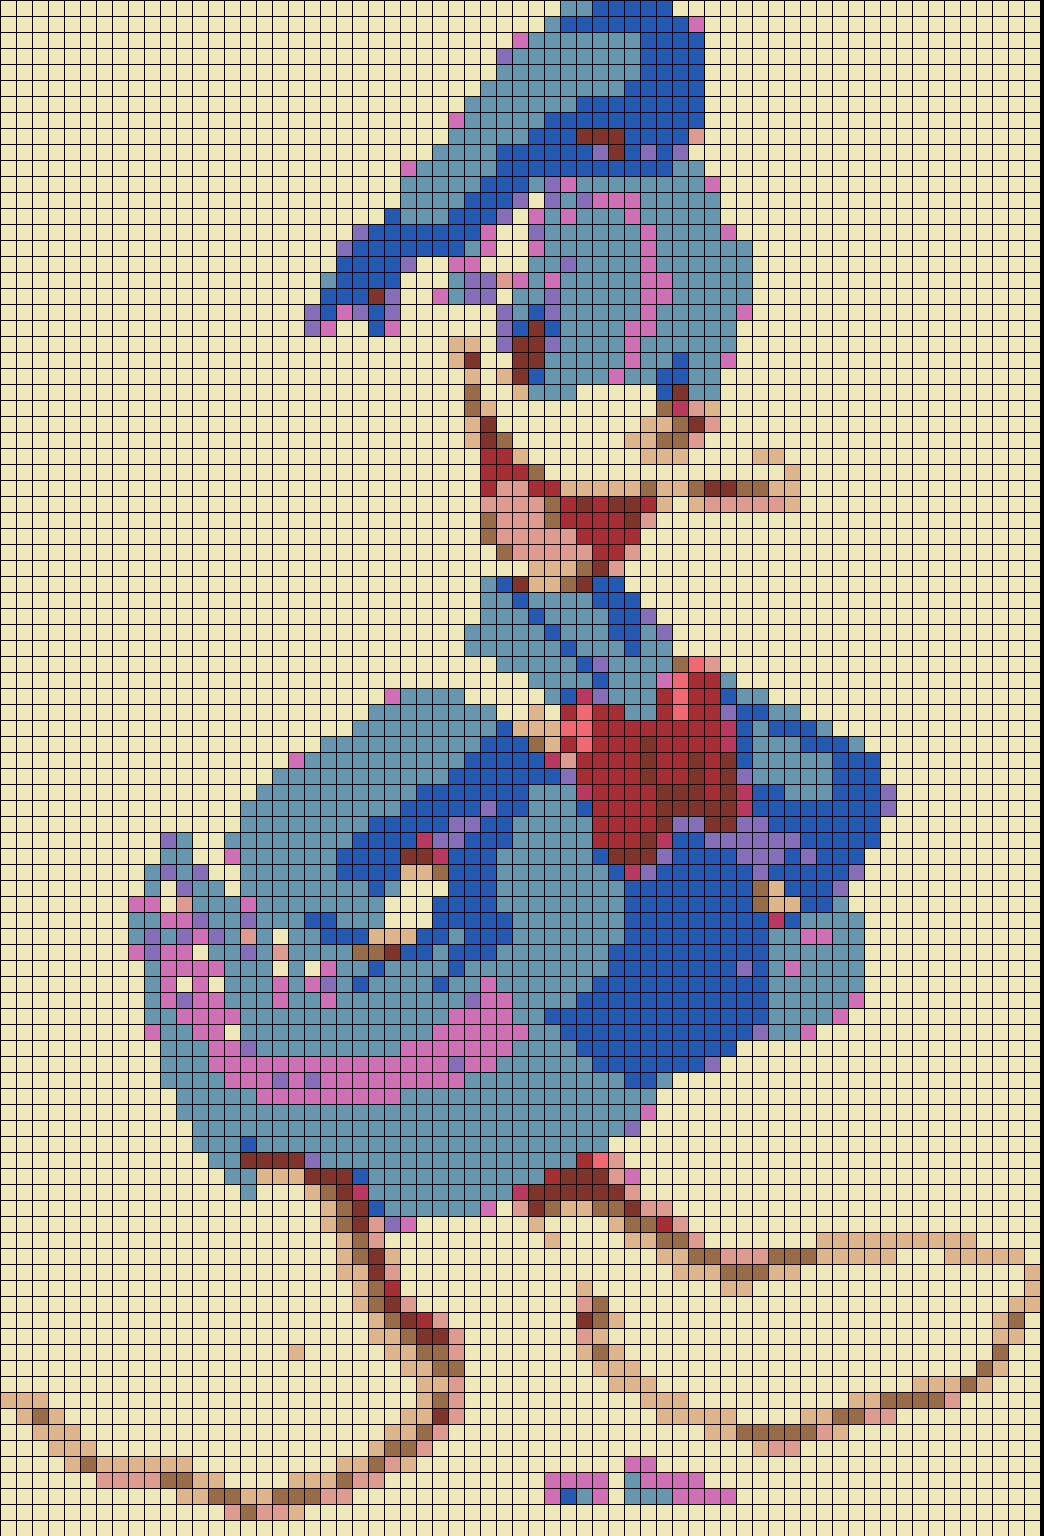
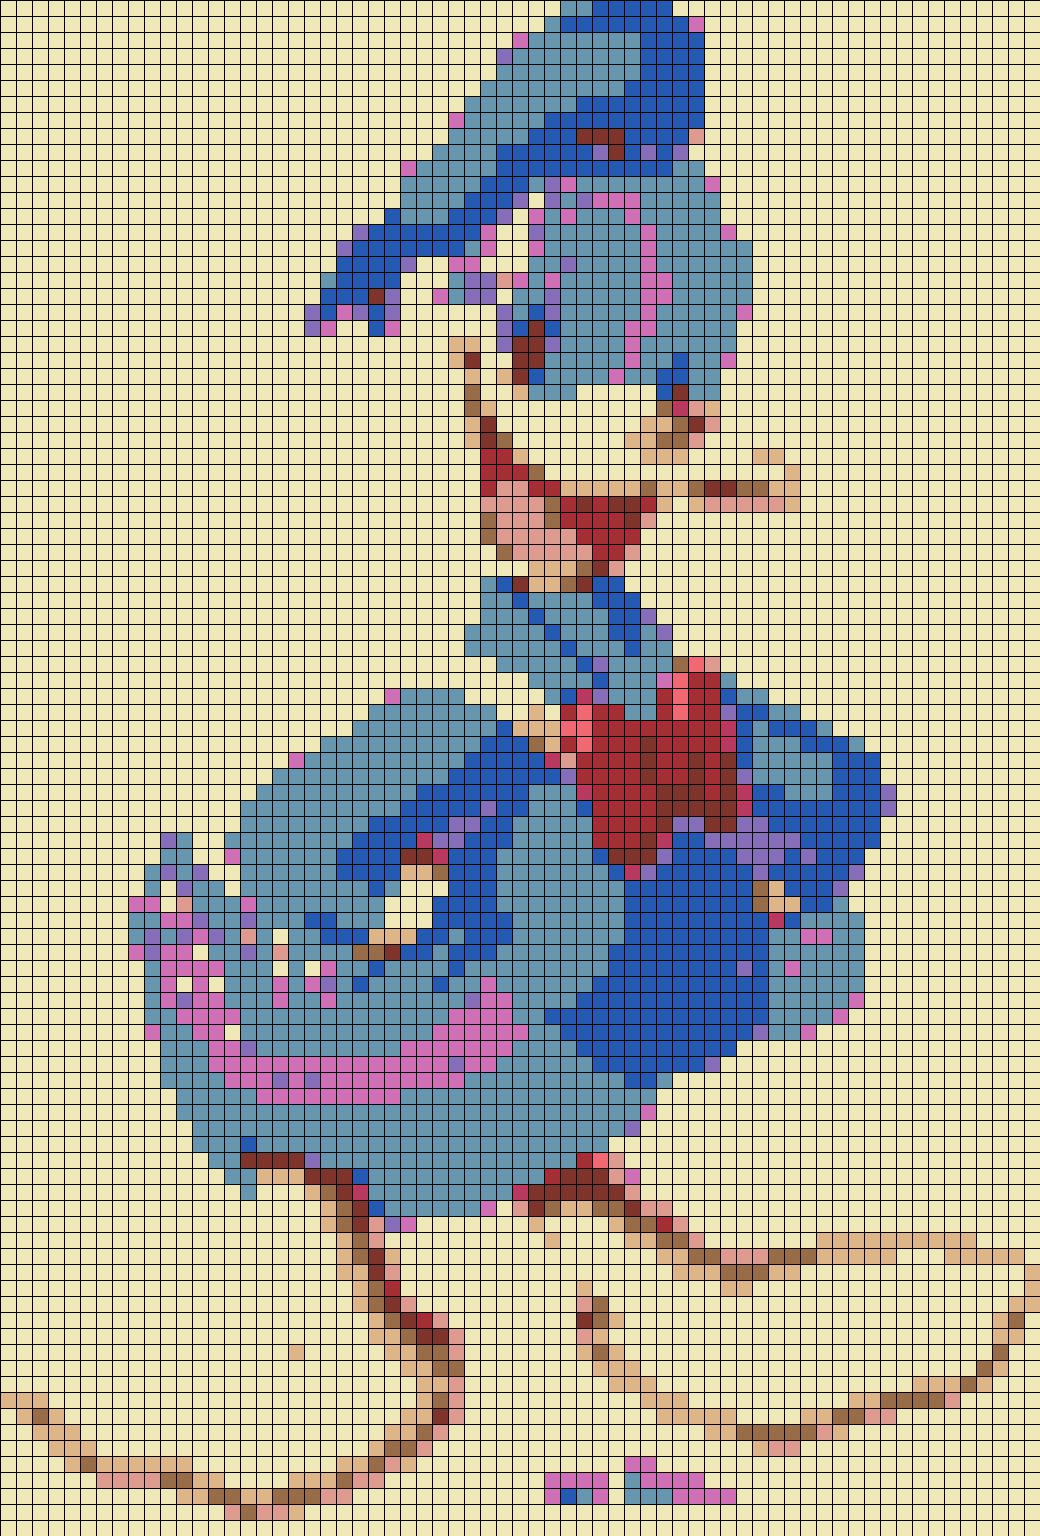
created a optimal image based on grids in order

Changed region(s): [[0.0308, 0.0, 1.0, 1.0]]

diff --git a/beads.py b/beads.py
@@ -8,7 +8,7 @@ from colormath.color_conversions import convert_color
 from datetime import timedelta
 import math
 
-__version__ = 1.4
+__version__ = 1.5
 
 """ Fast but inaccurate way to find the distance between 2 colors """
 def colordistance(color1, color2):
@@ -92,7 +92,10 @@ def beads(image, beadcolors={}, fastcolor=False, progress=True, xgrid=8, ygrid=8
         sys.exit(1)
 
     orig = o.convert('P', palette=Image.ADAPTIVE).convert('RGB')
-    im = Image.new(orig.mode, orig.size, bgcolor)
+
+    optimalx = int(orig.width/xgrid)*xgrid
+    optimaly = int(orig.height/ygrid)*ygrid
+    im = Image.new(orig.mode, (optimalx,optimaly), bgcolor)
 
     xblocks = orig.width/xgrid
     yblocks = orig.height/ygrid
